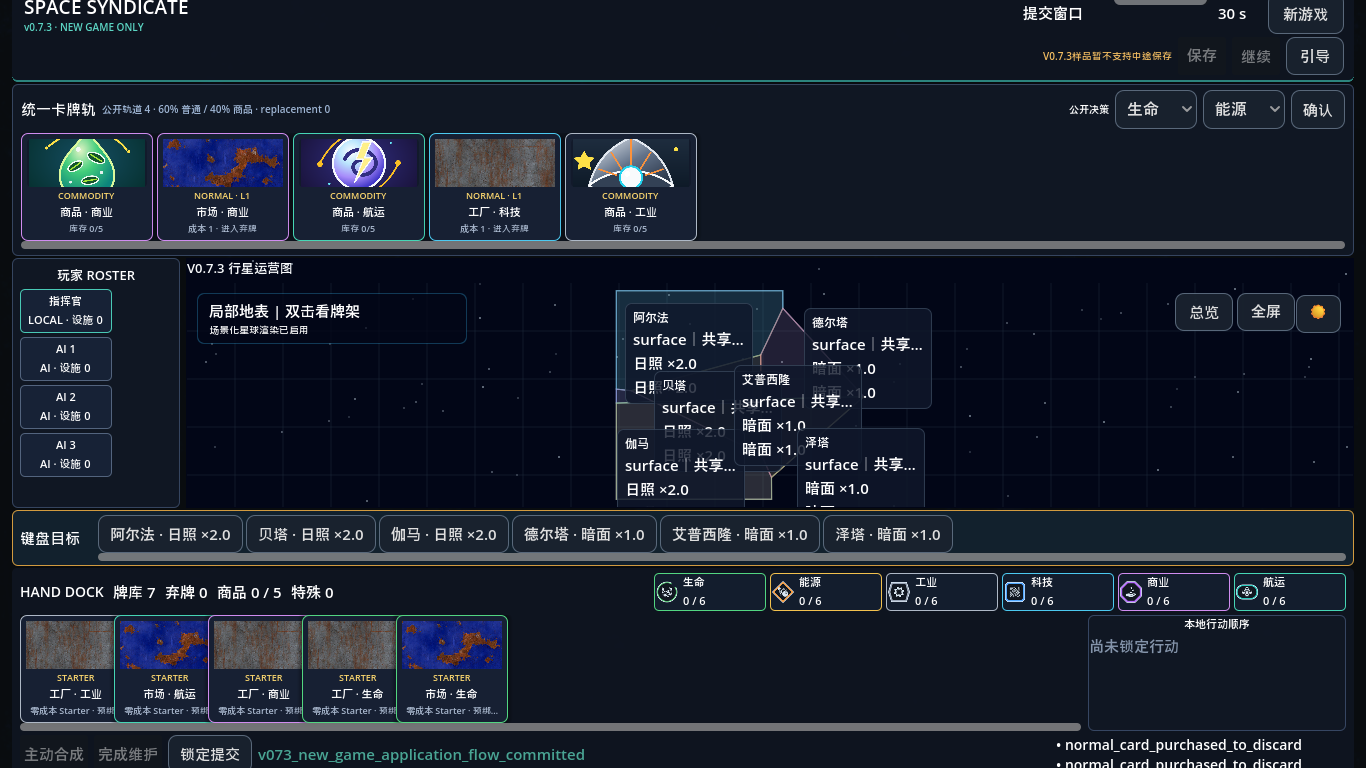
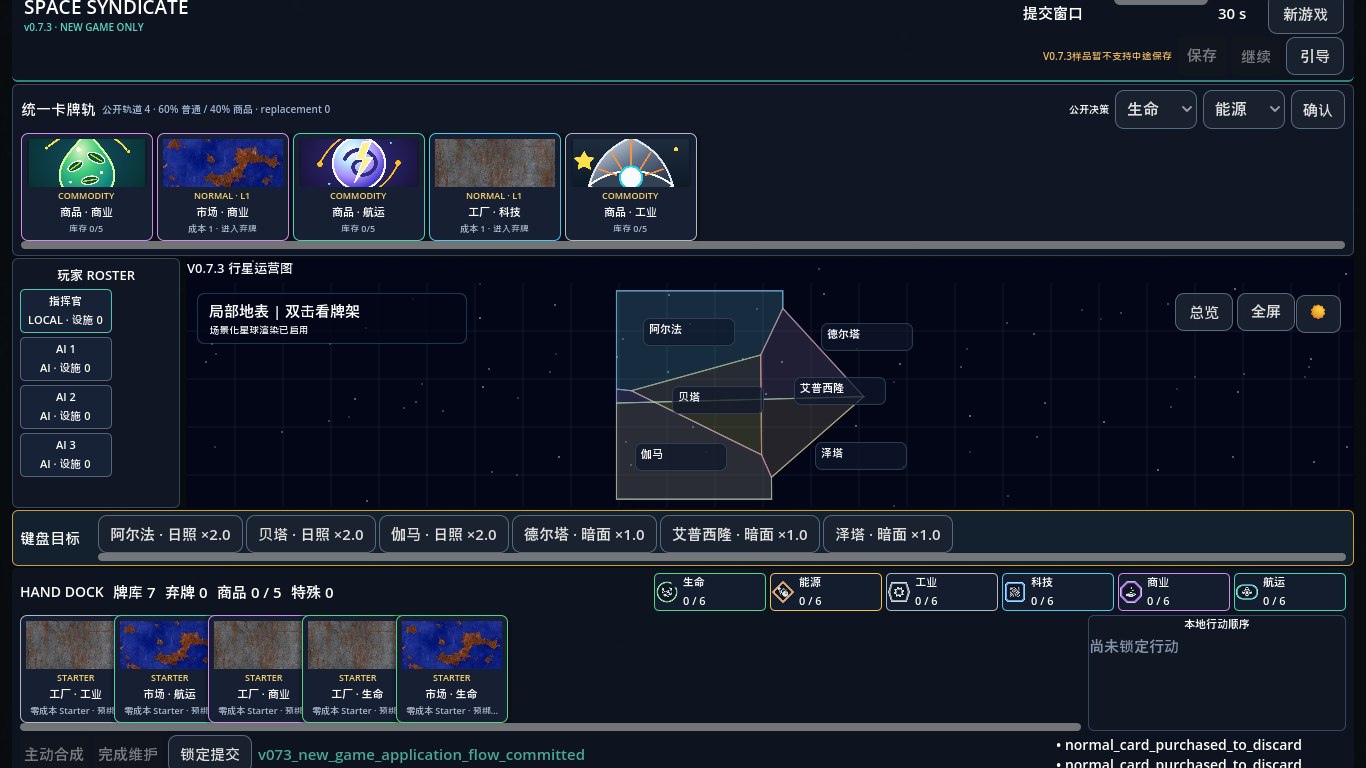
fix(ui): prevent district label collisions across projections

Changed region(s): [[0.4305, 0.4062, 0.6764, 0.6562]]

diff --git a/reports/ui/v073c1/v073_ui_globe_validation.md b/reports/ui/v073c1/v073_ui_globe_validation.md
@@ -6,6 +6,8 @@ The production table now gives the planet the remaining-space priority at all su
 
 The globe keeps the existing camera/projection math and uses a CanvasItem shader for radial normals, limb attenuation, atmosphere, camera-relative surface sampling, and the public solar terminator. District projection and hit testing use the same camera state. Drag rotation, wheel zoom, focus, overview reset, fullscreen roundtrip, backside rejection, Region Popup, typed legal target binding, and typed illegal-target rejection are green.
 
+The final visual review also caught a post-integration issue that the original outer-panel audit could not see: detailed district labels overlapped after the globe blended into the local projection. District labels now use deterministic collision-aware placement in every projection mode, with non-selected labels compacted while space is tight or the camera is moving. The collision audit rechecks the local projection at 1366x768, 1600x960, and 1920x1080; all district-label and interactive-control intersection counts are zero. Hidden or completed Coach Marks no longer contribute stale pointer-occlusion counters.
+
 The final headed matrix contains 22 production screenshots under `reports/ui/v073c1/after`. The two frozen-time same-seed PNGs are byte-identical (`626429da...`), while seed `900626425` differs (`a05c34b0...`). Freezing time is limited to the screenshot driver so the 30-second progress bar cannot add irrelevant pixel noise.
 
 The real MCP fixed-seed sanity match used one local player and three production AI players. The local path rotated and zoomed the globe, opened Region Popup from a district, bound two Starter cards through map regions, reordered and locked the queue, legally accelerated the running ruleset, reached FinalSettlement exactly once, showed the questionnaire, and exported the local playtest files. Runtime, duplicate-settlement, and hidden-information violation counts were zero.

diff --git a/reports/ui/v073c1/README.md b/reports/ui/v073c1/README.md
@@ -1,6 +1,7 @@
 # Screenshot Matrix
 
 All after-images are rendered from `res://scenes/main.tscn` with the production V0.7.3 composition.
+The near-zoom and region-focus captures include the final projection-wide district-label collision fix.
 
 ## 1366x768, four players
 
